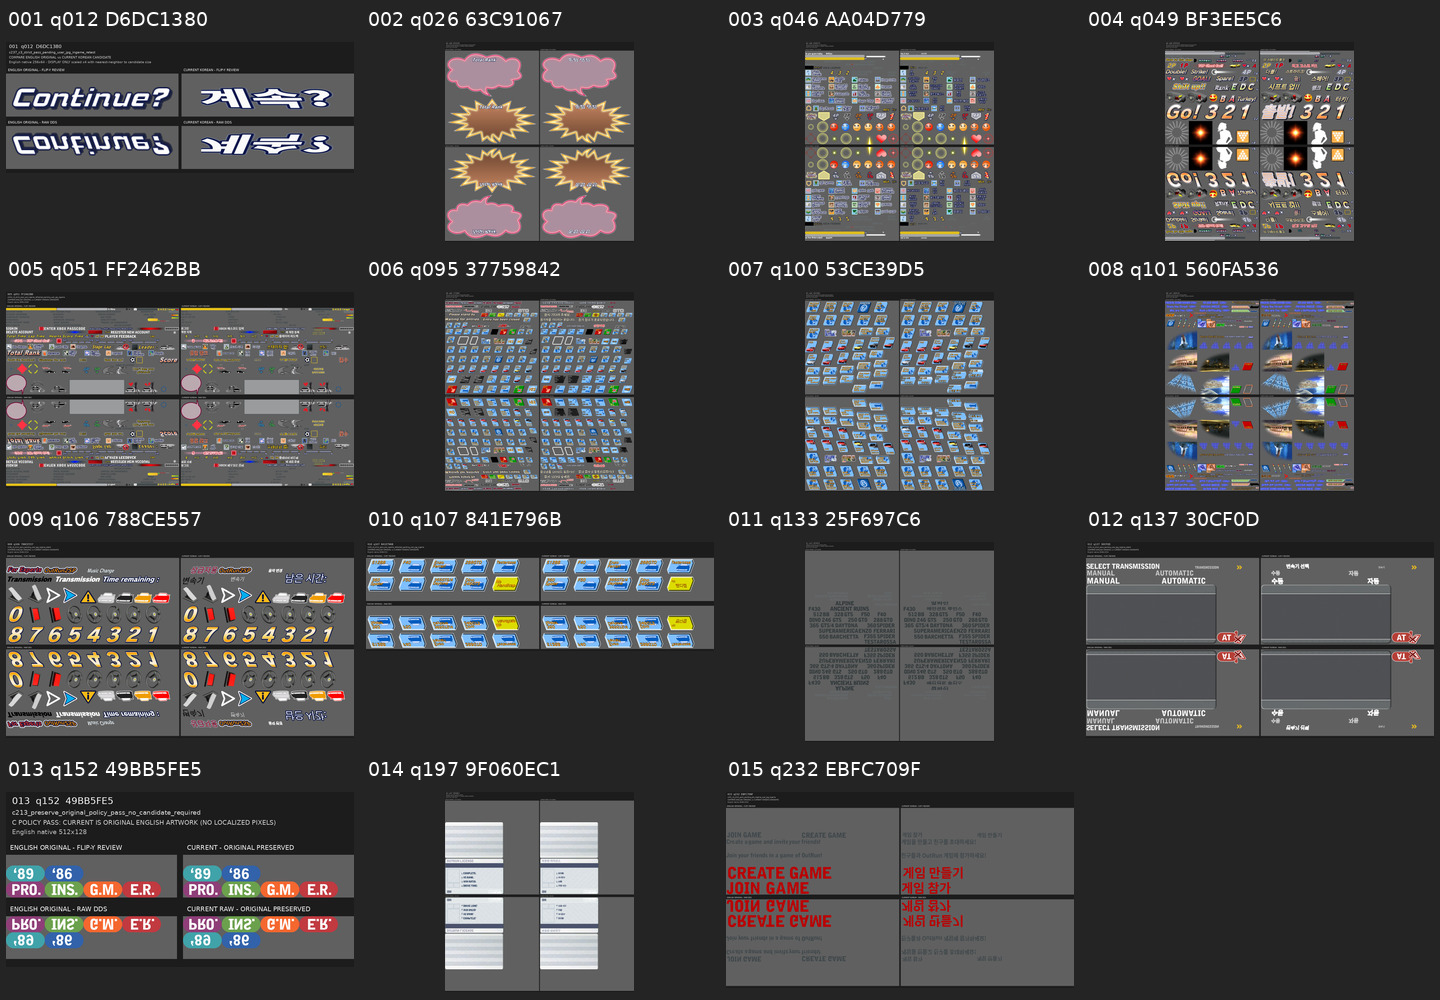
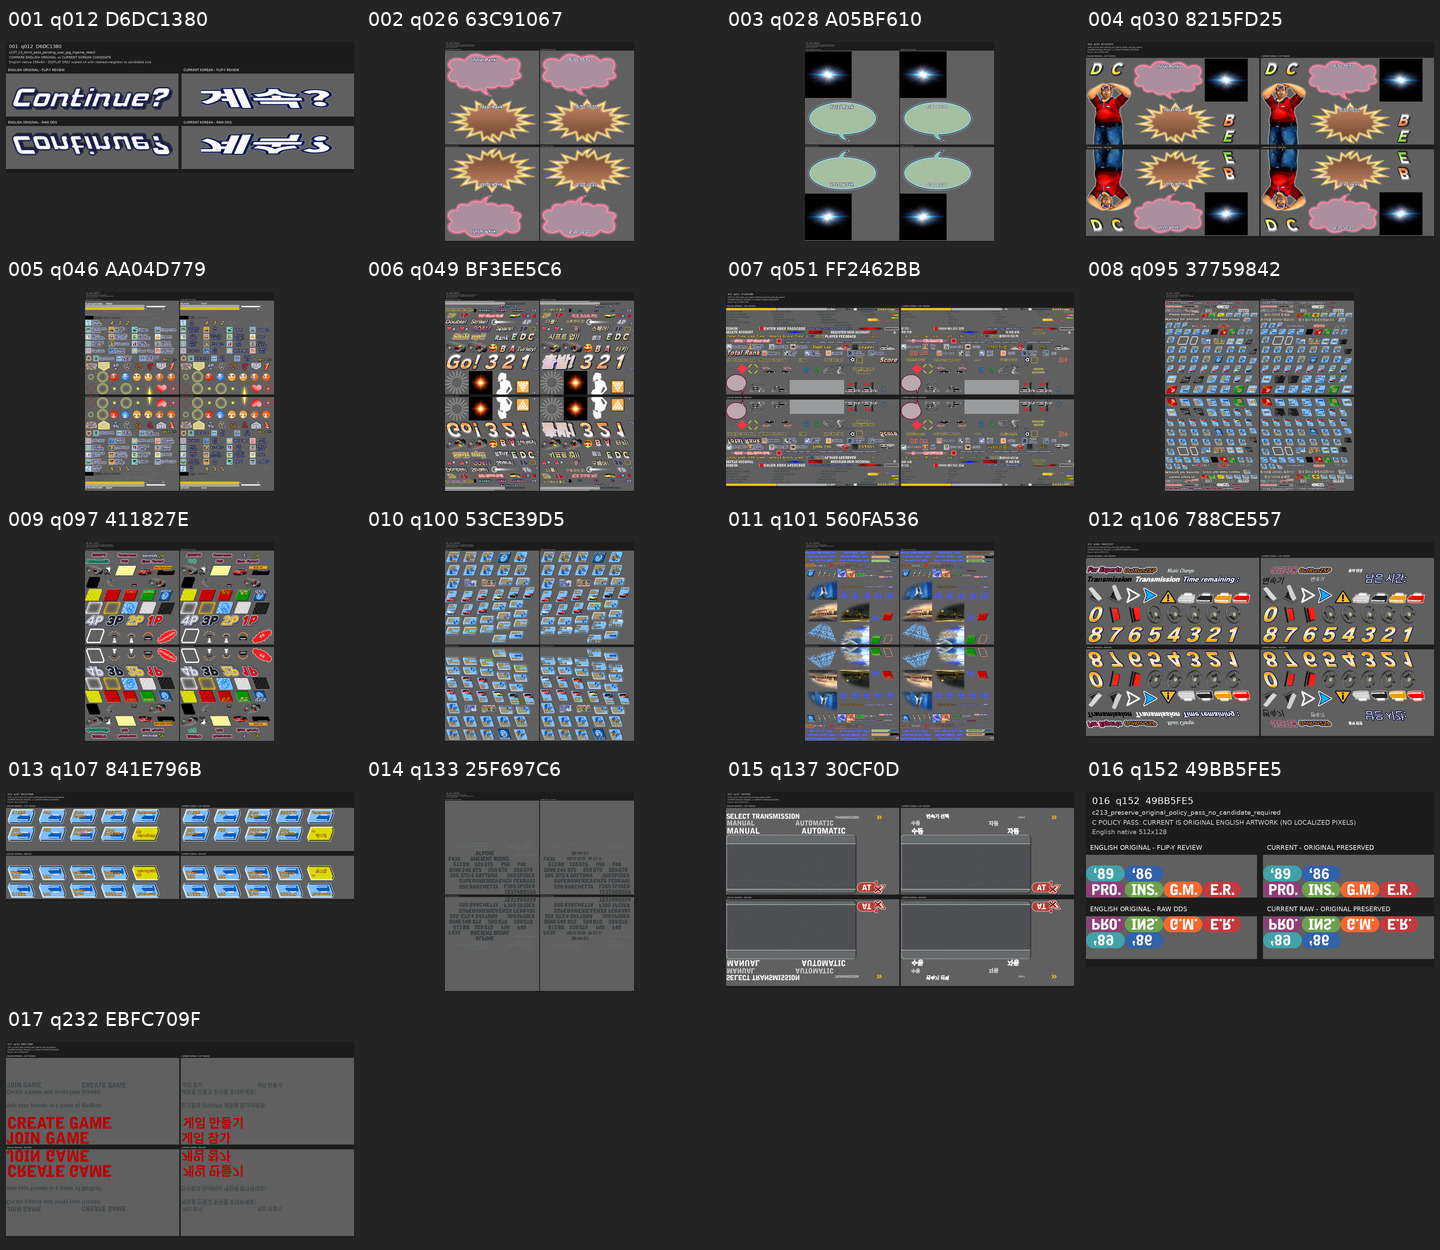
localization(cpu): worker output [C]

diff --git a/localization/graphics/role_C/PRE_INGAME_JPG_REVIEW/README.md b/localization/graphics/role_C/PRE_INGAME_JPG_REVIEW/README.md
@@ -1,6 +1,6 @@
 # C QA PASS - English original vs Korean pre-in-game review
 
-- Numbered C-pass rows: 15
+- Numbered C-pass rows: 17
 - High-risk candidates blocked pending exact-SHA C3_STRICT_PASS: 10
 - Primary English source: Sonic-TV/OR2006Sprites pinned at 3ce344e7ed6b1b535f5e4d34c1192071ff7afbe6
 - Exact stock-original fallback: localization/validation/binary_compare/original/OutRun2_ORIGINAL_matching_FULL_DRAFT.zip
